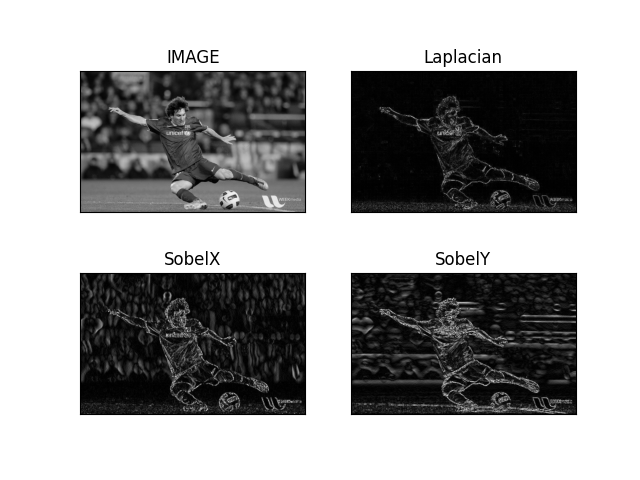
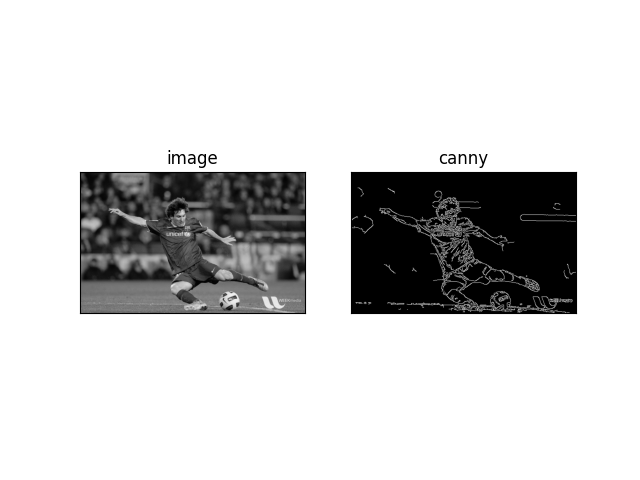
Add files via upload

diff --git a/CannyEdgeDetection.py b/CannyEdgeDetection.py
@@ -1,0 +1,17 @@
+import matplotlib.pyplot as plt
+import cv2
+
+img = cv2.imread('messi5.jpg', 0)
+canny = cv2.Canny(img, 75, 200)
+
+titles = ['image','canny']
+images = [img, canny]
+
+for i in range(2):
+    plt.subplot(1, 2, i + 1), plt.imshow(images[i], 'gray')
+    plt.title(titles[i])
+    plt.xticks([]), plt.yticks([])
+
+plt.show()
+cv2.waitKey(0)
+cv2.destroyAllWindows()
